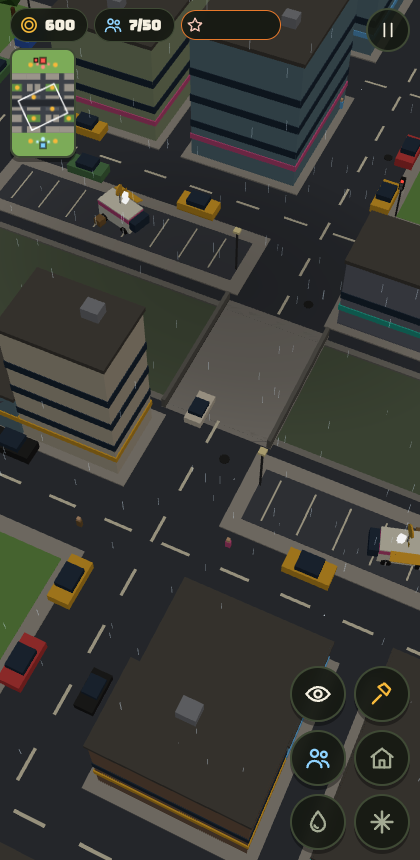
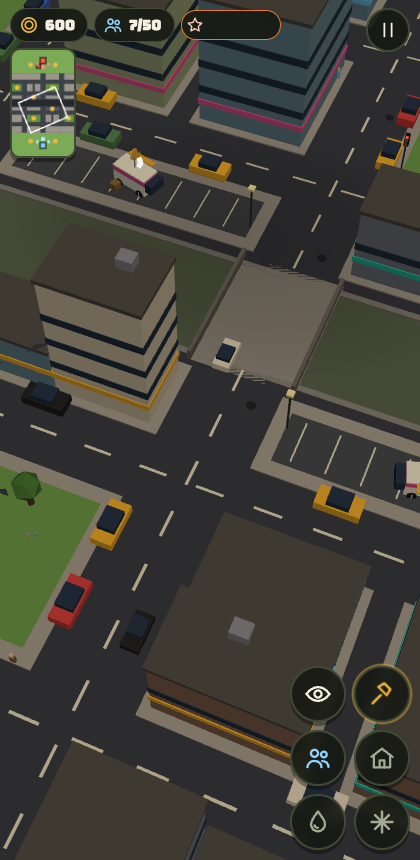
B117: First-match nudge: on a phone that has never opened the build menu, the hammer button gently pulses (scale + gold ring) until it is tapped once; remembered (cw-built), no words
Claude-Session: https://claude.ai/code/session_01FXzpagnksiDmMAqP3MTiXJ

diff --git a/src/ui/hud.js b/src/ui/hud.js
@@ -1,19 +1,22 @@
 // HUD: resource chips, context panel, command buttons, floating placement confirm, long-press labels.
 // Buttons are described as data ("specs") each refresh; the DOM is rebuilt only when the set of buttons changes.
 // Every action goes through sim.command(); Q.* is used only for instant feedback (shake, dim).
-import { svg } from './icons.js?v=116';
-import { UI, select, selSquads } from './state.js?v=116';
-import { getSim, pl, fac, Q, command, count, cpUsed, cpCap, hqOf } from '../sim/sim.js?v=116';
-import { BLD, BUILD_KINDS, TRAIN_SLOTS, UPG, REQ } from '../config/factions.js?v=116';
-import { CAM, toggleView, focus } from '../camera/camera.js?v=116';
-import { camera } from '../render/scene.js?v=116';
-import { walkH } from '../map/layout.js?v=116';
-import { THREE } from '../render/scene.js?v=116';
-import { showHint } from './hint.js?v=116';
+import { svg } from './icons.js?v=117';
+import { UI, select, selSquads } from './state.js?v=117';
+import { getSim, pl, fac, Q, command, count, cpUsed, cpCap, hqOf } from '../sim/sim.js?v=117';
+import { BLD, BUILD_KINDS, TRAIN_SLOTS, UPG, REQ } from '../config/factions.js?v=117';
+import { CAM, toggleView, focus } from '../camera/camera.js?v=117';
+import { camera } from '../render/scene.js?v=117';
+import { walkH } from '../map/layout.js?v=117';
+import { THREE } from '../render/scene.js?v=117';
+import { showHint } from './hint.js?v=117';
 
 const panelEl = document.getElementById('panel'), cmdEl = document.getElementById('cmd'), queueEl = document.getElementById('queue');
 const placeBar = document.getElementById('placeBar'), tipEl = document.getElementById('tip');
 const specs = new Map();
+// First match ever on this phone: the build (hammer) button pulses until it is first tapped. No words.
+let builtOnce = false;
+try { builtOnce = localStorage.getItem('cw-built') === '1'; } catch (e) {}
 
 function btnHTML(b) {
   return `<button type="button" class="btn${b.noCost ? ' noCost' : ''}${b.cls ? ' ' + b.cls : ''}" data-id="${b.id}" aria-label="${b.name || b.id}"><span class="gauge"></span><span class="pips"></span><span class="ic">${svg(b.icon)}</span>${b.noCost ? '' : '<span class="cost"></span>'}<span class="badge"></span><span class="prog"></span></button>`;
@@ -21,6 +24,7 @@ function btnHTML(b) {
 function applyBtn(el, b) {
   for (const k of ['dis', 'poor', 'ready', 'armed', 'on']) el.classList.toggle(k, !!b[k]);
   el.classList.toggle('cpblock', !!b.cp);
+  el.classList.toggle('nudge', !!b.nudge);
   const c = el.querySelector('.cost'); if (c && c.textContent !== String(b.cost)) c.textContent = b.cost;
   const bd = el.querySelector('.badge'), bt = b.badge ? String(b.badge) : ''; if (bd.textContent !== bt) bd.textContent = bt;
   el.querySelector('.prog').style.width = (b.prog != null ? Math.round(b.prog * 100) : 0) + '%';
@@ -100,7 +104,7 @@ function cmdSpec() {
   const S = getSim(), p = pl(0), F = fac(p);
   const out = [
     { id: 'view', name: 'Ghost cam', icon: 'eye', noCost: true, cls: 'sm view', on: CAM.view === 'low', tap: () => toggleView(selSquads()[0]) },
-    { id: 'build', name: 'Build', icon: 'hammer', noCost: true, cls: 'sm build', on: UI.buildMenu, tap: () => { UI.sel = null; UI.place = null; UI.buildMenu = !UI.buildMenu; } },
+    { id: 'build', name: 'Build', icon: 'hammer', noCost: true, cls: 'sm build', on: UI.buildMenu, nudge: !builtOnce, tap: () => { UI.sel = null; UI.place = null; UI.buildMenu = !UI.buildMenu; if (!builtOnce) { builtOnce = true; try { localStorage.setItem('cw-built', '1'); } catch (e) {} } } },
     { id: 'army', name: 'Select army', icon: 'people', noCost: true, cls: 'sm army', tap: () => { const army = S.squads.filter((s) => s.owner === 0 && s.slot !== 'worker'); if (!army.length) return false; select({ type: 'sq', ids: army.map((s) => s.id) }); focus(army[0].x, army[0].z); } },
     { id: 'home', name: 'Go home', icon: 'home', noCost: true, cls: 'sm', tap: () => { const hq = hqOf(p); if (!hq) return false; focus(hq.x, hq.z - 10); select({ type: 'bld', id: hq.id }); } },
   ];

diff --git a/index.html b/index.html
@@ -6,7 +6,7 @@
 <meta name="viewport" content="width=device-width,initial-scale=1,maximum-scale=1,user-scalable=no,viewport-fit=cover">
 <link rel="preconnect" href="https://fonts.googleapis.com">
 <link rel="stylesheet" href="https://fonts.googleapis.com/css2?family=Bungee&family=Lilita+One&display=swap">
-<link rel="stylesheet" href="./src/ui/style.css?v=116">
+<link rel="stylesheet" href="./src/ui/style.css?v=117">
 <!-- No build step needed: GitHub Pages serves this file straight from main, so bare 'three' imports resolve here. -->
 <script type="importmap">
 { "imports": { "three": "./vendor/three/three.module.min.js", "three/examples/jsm/": "./vendor/three/jsm/" } }
@@ -35,7 +35,7 @@
 <div id="box"></div>
 <div id="holdRing" hidden></div>
 <div id="menu" class="overlay">
-  <h1>Culture <em>Wars</em><span>GREYBOX 04 · <b id="build">B116</b></span></h1>
+  <h1>Culture <em>Wars</em><span>GREYBOX 04 · <b id="build">B117</b></span></h1>
   <div class="diff" id="diff"><button type="button" data-d="0" aria-label="Easy"><span class="ic" data-i="star"></span></button><button type="button" data-d="1" class="on" aria-label="Normal"><span class="ic" data-i="star"></span><span class="ic" data-i="star"></span></button><button type="button" data-d="2" aria-label="Hard"><span class="ic" data-i="star"></span><span class="ic" data-i="star"></span><span class="ic" data-i="star"></span></button><i class="sep"></i><button type="button" class="mode" data-m="vs" aria-label="Versus"><span class="ic" data-i="home"></span></button><button type="button" class="mode" data-m="hill" aria-label="King of the Hill"><span class="ic" data-i="flag"></span></button><button type="button" class="mode" data-m="cap" aria-label="Capture and Hold"><span class="ic" data-i="hold"></span></button><button type="button" class="mode" data-m="race" aria-label="Resource Race"><span class="ic" data-i="coin"></span></button><button type="button" class="mode" data-m="hero" aria-label="Hero vs Hero"><span class="ic" data-i="hero"></span></button></div>
   <div class="picks">
     <button class="pick" data-f="bw" type="button"><span class="ic" data-i="truck"></span>Backwoods<small>FEWER · TOUGHER</small></button>
@@ -65,6 +65,6 @@
   setTimeout(function () { if (!window.__cwBooted) show('Game script did not start (old cached file? wait a few minutes and reload)'); }, 8000);
 })();
 </script>
-<script type="module" src="./src/main.js?v=116" onerror="__cwLoadFail()"></script>
+<script type="module" src="./src/main.js?v=117" onerror="__cwLoadFail()"></script>
 </body>
 </html>

diff --git a/src/main.js b/src/main.js
@@ -1,22 +1,22 @@
 // Entry point: wires sim + render + input + UI and runs the fixed-step loop.
-import { renderer, scene, camera, followSun, THREE, setTimeOfDay, sun } from './render/scene.js?v=116';
-import { buildWorld, updateWorld, setDusk, setRain, setLowWorld } from './render/world.js?v=116';
-import { syncRender, clearRender, bump } from './render/sync.js?v=116';
-import { handleEvents, updateFx, clearFx } from './fx/fx.js?v=116';
-import { newSim, getSim, step } from './sim/sim.js?v=116';
-import { TICK } from './config/factions.js?v=116';
-import { CAM, applyCam, resetCam, onResize } from './camera/camera.js?v=116';
-import { initInput, lockPageZoom } from './input/input.js?v=116';
-import { refreshHUD, resetHUD, updatePlaceBar } from './ui/hud.js?v=116';
-import { resetUI } from './ui/state.js?v=116';
-import { fillIcons, svg } from './ui/icons.js?v=116';
-import { noteAlerts, updateAlert, clearAlert } from './ui/alert.js?v=116';
-import { updateMinimap } from './ui/minimap.js?v=116';
-import { isMuted, setMuted } from './fx/sfx.js?v=116';
-import { loadChars } from './render/chars.js?v=116';
-import { FC } from './render/models.js?v=116';
+import { renderer, scene, camera, followSun, THREE, setTimeOfDay, sun } from './render/scene.js?v=117';
+import { buildWorld, updateWorld, setDusk, setRain, setLowWorld } from './render/world.js?v=117';
+import { syncRender, clearRender, bump } from './render/sync.js?v=117';
+import { handleEvents, updateFx, clearFx } from './fx/fx.js?v=117';
+import { newSim, getSim, step } from './sim/sim.js?v=117';
+import { TICK } from './config/factions.js?v=117';
+import { CAM, applyCam, resetCam, onResize } from './camera/camera.js?v=117';
+import { initInput, lockPageZoom } from './input/input.js?v=117';
+import { refreshHUD, resetHUD, updatePlaceBar } from './ui/hud.js?v=117';
+import { resetUI } from './ui/state.js?v=117';
+import { fillIcons, svg } from './ui/icons.js?v=117';
+import { noteAlerts, updateAlert, clearAlert } from './ui/alert.js?v=117';
+import { updateMinimap } from './ui/minimap.js?v=117';
+import { isMuted, setMuted } from './fx/sfx.js?v=117';
+import { loadChars } from './render/chars.js?v=117';
+import { FC } from './render/models.js?v=117';
 
-export const BUILD = 116; // written by `npm run bump`
+export const BUILD = 117; // written by `npm run bump`
 lockPageZoom();
 fillIcons();
 buildWorld();

diff --git a/src/render/sync.js b/src/render/sync.js
@@ -1,19 +1,19 @@
 // Mirrors sim state into the scene every frame. Reads the sim, never writes to it.
-import { THREE, scene, camera, mat, box, basic, ringMesh, disposeObj, casts } from './scene.js?v=116';
-import { makeMember, bldMesh, nodeMesh, formation, FC } from './models.js?v=116';
-import { makeChar, charsReady, play, CAST } from './chars.js?v=116';
-import { emit } from '../fx/particles.js?v=116';
-import { bark } from '../fx/sfx.js?v=116';
-import { TICK } from '../config/factions.js?v=116';
-import { walkH } from '../map/layout.js?v=116';
-import { NODE_AMOUNT, BLD, BUILD_RADIUS, FACTIONS } from '../config/factions.js?v=116';
-import { CAM } from '../camera/camera.js?v=116';
+import { THREE, scene, camera, mat, box, basic, ringMesh, disposeObj, casts } from './scene.js?v=117';
+import { makeMember, bldMesh, nodeMesh, formation, FC } from './models.js?v=117';
+import { makeChar, charsReady, play, CAST } from './chars.js?v=117';
+import { emit } from '../fx/particles.js?v=117';
+import { bark } from '../fx/sfx.js?v=117';
+import { TICK } from '../config/factions.js?v=117';
+import { walkH } from '../map/layout.js?v=117';
+import { NODE_AMOUNT, BLD, BUILD_RADIUS, FACTIONS } from '../config/factions.js?v=117';
+import { CAM } from '../camera/camera.js?v=117';
 const fac0 = (S) => FACTIONS[S.players[0].f];
-import { Q, pl, getSim } from '../sim/sim.js?v=116';
-import { UI } from '../ui/state.js?v=116';
-import { fxConfetti, fxDeath } from '../fx/fx.js?v=116';
+import { Q, pl, getSim } from '../sim/sim.js?v=117';
+import { UI } from '../ui/state.js?v=117';
+import { fxConfetti, fxDeath } from '../fx/fx.js?v=117';
 import { mergeGeometries } from 'three/examples/jsm/utils/BufferGeometryUtils.js';
-import { lerpAngle } from '../util/math.js?v=116';
+import { lerpAngle } from '../util/math.js?v=117';
 // Selection rings take your faction colour, washed toward white so they still pop on any ground.
 const selCol = () => { const S = getSim(), f = S && S.players[0].f; return f ? new THREE.Color(FC[f].main).lerp(new THREE.Color(0xffffff), 0.35).getHex() : 0xffffff; };
 

diff --git a/src/input/input.js b/src/input/input.js
@@ -4,13 +4,13 @@
 //   hold then drag  = box select
 //   2 fingers       = pinch zoom + twist to rotate + drag to pan
 //   mouse: right-drag = box select, wheel = zoom; keys WASD/arrows pan, Q/E rotate, V ghost cam, Esc cancel
-import { THREE, camera, canvas } from '../render/scene.js?v=116';
-import { walkH } from '../map/layout.js?v=116';
-import { getSim, command } from '../sim/sim.js?v=116';
-import { UI, select, selSquads } from '../ui/state.js?v=116';
-import { CAM, panBy, clampCam, toggleView, pxPerUnit } from '../camera/camera.js?v=116';
-import { fxMarker } from '../fx/fx.js?v=116';
-import { ack } from '../render/sync.js?v=116';
+import { THREE, camera, canvas } from '../render/scene.js?v=117';
+import { walkH } from '../map/layout.js?v=117';
+import { getSim, command } from '../sim/sim.js?v=117';
+import { UI, select, selSquads } from '../ui/state.js?v=117';
+import { CAM, panBy, clampCam, toggleView, pxPerUnit } from '../camera/camera.js?v=117';
+import { fxMarker } from '../fx/fx.js?v=117';
+import { ack } from '../render/sync.js?v=117';
 
 const ray = new THREE.Raycaster(), ndc = new THREE.Vector2(), tmp = new THREE.Vector3();
 export function groundAt(cx, cy) {

diff --git a/src/fx/fx.js b/src/fx/fx.js
@@ -1,12 +1,12 @@
 // Visual effects. Reads sim events, never changes the sim.
 // To add an effect for a new mechanic: emit S.events.push({k:'myThing', ...}) in the sim,
 // then add a case in handleEvents below.
-import { THREE, scene, mat, cyl, basic, disposeObj } from '../render/scene.js?v=116';
-import { walkH } from '../map/layout.js?v=116';
-import { sfx } from './sfx.js?v=116';
-import { shake, CAM } from '../camera/camera.js?v=116';
-import { FC } from '../render/models.js?v=116';
-import { emit, updateParticles, clearParticles, burstHit, burstShot, burstCoins } from './particles.js?v=116';
+import { THREE, scene, mat, cyl, basic, disposeObj } from '../render/scene.js?v=117';
+import { walkH } from '../map/layout.js?v=117';
+import { sfx } from './sfx.js?v=117';
+import { shake, CAM } from '../camera/camera.js?v=117';
+import { FC } from '../render/models.js?v=117';
+import { emit, updateParticles, clearParticles, burstHit, burstShot, burstCoins } from './particles.js?v=117';
 
 const fx = [];
 function addFx(obj, life, upd) { scene.add(obj); fx.push({ obj, life, t: 0, upd }); }

diff --git a/src/render/world.js b/src/render/world.js
@@ -1,10 +1,10 @@
 // Static city: streets, sidewalks, buildings, parks, freeway trench + overpasses, ambient traffic.
 // Built once from map/layout.js. Mostly InstancedMesh so it stays cheap on phones.
-import { THREE, scene, mat, box, setOvercast } from './scene.js?v=116';
-import { CAM } from '../camera/camera.js?v=116';
-import { MAP, BLOCKS, TREES, PARKED, TRENCH, OVERPASSES, AVENUES, CROSS_STREETS, HOME_Z, inRect, walkH } from '../map/layout.js?v=116';
-import { hash } from '../util/math.js?v=116';
-import { emit } from '../fx/particles.js?v=116';
+import { THREE, scene, mat, box, setOvercast } from './scene.js?v=117';
+import { CAM } from '../camera/camera.js?v=117';
+import { MAP, BLOCKS, TREES, PARKED, TRENCH, OVERPASSES, AVENUES, CROSS_STREETS, HOME_Z, inRect, walkH } from '../map/layout.js?v=117';
+import { hash } from '../util/math.js?v=117';
+import { emit } from '../fx/particles.js?v=117';
 
 const COL = {
   asphalt: 0x3d4148, sidewalk: 0xa8a49a, grass: 0x6f9e50, lawn: 0x7cab58, lot: 0x4b4f56, stripe: 0xe8e2c8,

diff --git a/src/sim/sim.js b/src/sim/sim.js
@@ -9,11 +9,11 @@
 import {
   TICK, START_CASH, BUILD_RADIUS, MAX_WORKERS, NODE_AMOUNT, GATHER_T, CARRY, BASE_INCOME, DEPOT_INCOME,
   COUNTER, REQ, UPG, UPT, BLD, FACTIONS,
-} from '../config/factions.js?v=116';
-import { MAP, NODES, BASES, walkH } from '../map/layout.js?v=116';
-import { markCircle, isBlocked, lineClear, nearestFree, findPath, blocked, cellOf, cellCenter, inGrid } from '../map/grid.js?v=116';
-import { mulberry32 } from '../util/math.js?v=116';
-import { aiStep } from './ai.js?v=116';
+} from '../config/factions.js?v=117';
+import { MAP, NODES, BASES, walkH } from '../map/layout.js?v=117';
+import { markCircle, isBlocked, lineClear, nearestFree, findPath, blocked, cellOf, cellCenter, inGrid } from '../map/grid.js?v=117';
+import { mulberry32 } from '../util/math.js?v=117';
+import { aiStep } from './ai.js?v=117';
 
 let S = null;
 export const getSim = () => S;

diff --git a/src/ui/minimap.js b/src/ui/minimap.js
@@ -1,8 +1,8 @@
 // Minimap, top-left under the resource chips. Fixed orientation: your base at the bottom (+z), enemy at the top.
 // Tap or drag on it to move the camera there. Static city is drawn once; units/buildings redraw ~10x a second.
-import { MAP, BLOCKS, TRENCH } from '../map/layout.js?v=116';
-import { CAM, focus } from '../camera/camera.js?v=116';
-import { getSim } from '../sim/sim.js?v=116';
+import { MAP, BLOCKS, TRENCH } from '../map/layout.js?v=117';
+import { CAM, focus } from '../camera/camera.js?v=117';
+import { getSim } from '../sim/sim.js?v=117';
 
 const cv = document.getElementById('mini'), ctx = cv.getContext('2d');
 const bg = document.createElement('canvas'), bctx = bg.getContext('2d');

diff --git a/src/ui/alert.js b/src/ui/alert.js
@@ -1,9 +1,9 @@
 // Under-attack alert: when something of yours is hit somewhere the camera is not looking, a red arrow pulses on
 // the screen edge pointing at it. Tap the arrow to fly there. Newest fight wins; it fades 5 s after the last hit.
-import { THREE, camera } from '../render/scene.js?v=116';
-import { walkH } from '../map/layout.js?v=116';
-import { focus } from '../camera/camera.js?v=116';
-import { svg } from './icons.js?v=116';
+import { THREE, camera } from '../render/scene.js?v=117';
+import { walkH } from '../map/layout.js?v=117';
+import { focus } from '../camera/camera.js?v=117';
+import { svg } from './icons.js?v=117';
 
 const el = document.getElementById('alert');
 el.innerHTML = svg('up');

diff --git a/src/render/chars.js b/src/render/chars.js
@@ -2,7 +2,7 @@
 // clips drives all of them: the clips come from three DONOR files and are retargeted onto each rig by bone name.
 // Nothing here is required: until the files load (or if they fail, e.g. the single-file artifact build) the
 // box placeholders in models.js are used, and sync.js swaps squads over once this reports ready.
-import { THREE } from './scene.js?v=116';
+import { THREE } from './scene.js?v=117';
 import { GLTFLoader } from 'three/examples/jsm/loaders/GLTFLoader.js';
 import { DRACOLoader } from 'three/examples/jsm/loaders/DRACOLoader.js';
 import { clone as skClone } from 'three/examples/jsm/utils/SkeletonUtils.js';

diff --git a/src/render/models.js b/src/render/models.js
@@ -2,7 +2,7 @@
 // SWAP POINT FOR REAL ART: replace makeMember / bldMesh / nodeMesh bodies with GLB clones.
 // Keep the same contract: return a THREE.Group, feet at y=0, facing +z, roughly to the scale below
 // (humans ~1.6 m, monster truck ~3 m long). userData.legs (optional) = [leftLeg, rightLeg] for walk swing.
-import { THREE, box, cyl, mat } from './scene.js?v=116';
+import { THREE, box, cyl, mat } from './scene.js?v=117';
 
 export const FC = {
   bw: { main: 0xe8792b, dark: 0x5a3a22, skin: 0xf2c9a0, alt: 0x3d5a80, hair: 0x4a2e1a },
